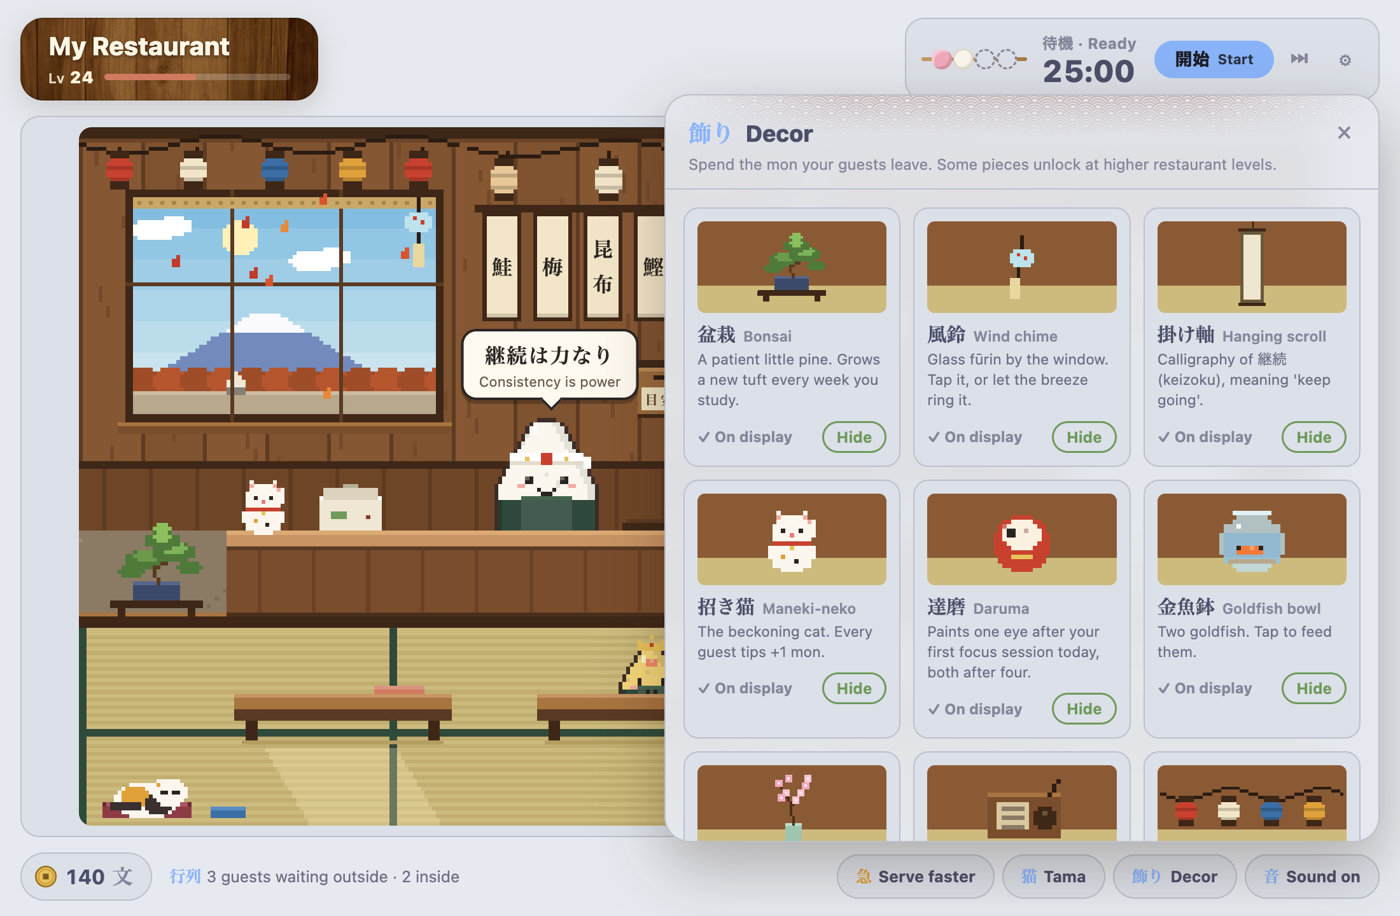
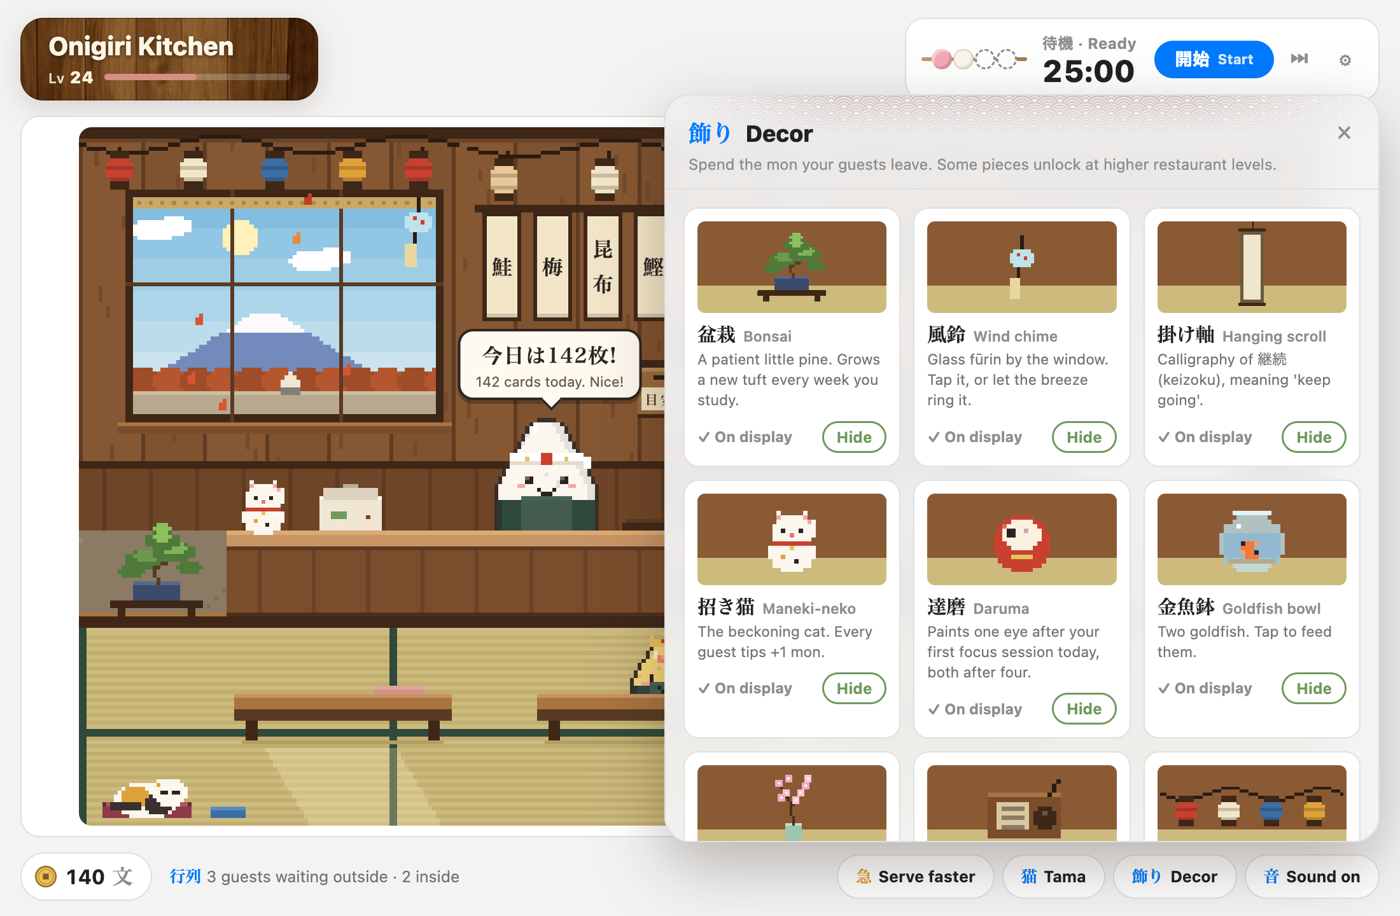
Screenshots: Onigiri's default theme
The preview now reads Onigiri's shipped default palette (and the default
restaurant colour/name) so the images show the kitchen as it looks in a
default Onigiri setup.

diff --git a/dev/widget.html b/dev/widget.html
@@ -1,11 +1,11 @@
 <!doctype html><html><head><meta charset="utf-8"><title>Widget preview</title>
 <style>
 body { margin:0; padding:24px; font-family:-apple-system,system-ui; background:var(--bg); color:var(--fg);
-  --bg:#e6e9ef; --fg:#4c4f69; --fg-subtle:#6c6f85; --border:#bcc0cc; --canvas-inset:#dce0e8; --accent-color:#89b4fa; }
-body.nightMode { --bg:#1e1e2e; --fg:#cdd6f4; --fg-subtle:#a6adc8; --border:#45475a; --canvas-inset:#313244; }
+  --bg:#f3f3f3; --fg:#212121; --fg-subtle:#757575; --border:#e0e0e0; --canvas-inset:#ffffff; --accent-color:#007aff; }
+body.nightMode { --bg:#2c2c2c; --fg:#e0e0e0; --fg-subtle:#9e9e9e; --border:#424242; --canvas-inset:#2c2c2c; --accent-color:#0a84ff; }
 .unified-grid { display:grid; gap:15px; grid-auto-rows:minmax(110px,auto); grid-template-columns:repeat(4,1fr); }
 .external-widget-container, .onigiri-widget-container { width:100%; height:100%; display:flex; flex-direction:column; overflow:hidden; }
-.fake { background:var(--canvas-inset); border-radius:15px; border:1px solid var(--border); display:flex; align-items:center; justify-content:center; color:var(--fg-subtle); font-size:13px; }
+.fake { background:var(--canvas-inset); border-radius:15px; border:1px solid var(--border); display:flex; flex-direction:column; align-items:flex-start; justify-content:center; padding:0 18px; box-sizing:border-box; color:var(--fg); font-size:13px; } .fake .lbl { color:var(--fg-subtle); font-size:12px; font-weight:600; } .fake b { font-size:22px; font-weight:800; }
 h3 { font-size:13px; color:var(--fg-subtle); margin:18px 0 8px; }
 .plainwrap { background:#fff; padding:14px; border-radius:8px; text-align:center; color:#333; }
 </style>
@@ -15,13 +15,13 @@ h3 { font-size:13px; color:var(--fg-subtle); margin:18px 0 8px; }
 <body><script>if(location.search.includes('night'))document.body.className='nightMode'</script>
 <h3>Onigiri home grid</h3>
 <div class="unified-grid">
-  <div class="onigiri-widget-container fake" style="grid-area:1/1/span 1/span 1">Studied</div>
-  <div class="external-widget-container" style="grid-area:1/2/span 1/span 2"><div class="okw" role="button" tabindex="0"><script type="application/json" class="okw-data">{"guests": 7, "nextIn": 3, "reviews": 142, "focusDone": 2, "mon": 186, "pet": {"name": "Tama", "tummy": 70, "love": 85, "energy": 70, "stage": 1}, "theme": "#AFC3D6", "timer": {"pomo": {"phase": "idle", "rounds": 1, "cycle": 4}, "sound": false}}</script><div class="okw-in"><canvas class="okw-scene" width="64" height="40"></canvas><div class="okw-info"></div></div></div></div>
-  <div class="external-widget-container" style="grid-area:1/4/span 1/span 1"><div class="okw" role="button" tabindex="0"><script type="application/json" class="okw-data">{"guests": 7, "nextIn": 3, "reviews": 142, "focusDone": 2, "mon": 186, "pet": {"name": "Tama", "tummy": 70, "love": 85, "energy": 70, "stage": 1}, "theme": "#AFC3D6", "timer": {"pomo": {"phase": "idle", "rounds": 1, "cycle": 4}, "sound": false}}</script><div class="okw-in"><canvas class="okw-scene" width="64" height="40"></canvas><div class="okw-info"></div></div></div></div>
-  <div class="external-widget-container" style="grid-area:2/1/span 2/span 2" id="w22"><div class="okw" role="button" tabindex="0"><script type="application/json" class="okw-data">{"guests": 0, "nextIn": 3, "reviews": 142, "focusDone": 2, "mon": 186, "pet": {"name": "Tama", "tummy": 70, "love": 85, "energy": 20, "stage": 1}, "theme": "#AFC3D6", "timer": {"pomo": {"phase": "focus", "endsAt": 0, "remaining": 1101000, "paused": true, "rounds": 1, "cycle": 4}}}</script><div class="okw-in"><canvas class="okw-scene" width="64" height="40"></canvas><div class="okw-info"></div></div></div></div>
-  <div class="external-widget-container" style="grid-area:2/3/span 2/span 1"><div class="okw" role="button" tabindex="0"><script type="application/json" class="okw-data">{"guests": 7, "nextIn": 3, "reviews": 142, "focusDone": 2, "mon": 186, "pet": {"name": "Tama", "tummy": 70, "love": 85, "energy": 70, "stage": 1}, "theme": "#AFC3D6", "timer": {"pomo": {"phase": "idle", "rounds": 1, "cycle": 4}, "sound": false}}</script><div class="okw-in"><canvas class="okw-scene" width="64" height="40"></canvas><div class="okw-info"></div></div></div></div>
-  <div class="onigiri-widget-container fake" style="grid-area:2/4/span 2/span 1">Heatmap</div>
+  <div class="onigiri-widget-container fake" style="grid-area:1/1/span 1/span 1"><span class="lbl">Studied</span><b>142 cards</b></div>
+  <div class="external-widget-container" style="grid-area:1/2/span 1/span 2"><div class="okw" role="button" tabindex="0"><script type="application/json" class="okw-data">{"guests": 7, "nextIn": 3, "reviews": 142, "focusDone": 2, "mon": 186, "pet": {"name": "Tama", "tummy": 70, "love": 85, "energy": 70, "stage": 1}, "theme": "#D49083", "timer": {"pomo": {"phase": "idle", "rounds": 1, "cycle": 4}, "sound": false}}</script><div class="okw-in"><canvas class="okw-scene" width="64" height="40"></canvas><div class="okw-info"></div></div></div></div>
+  <div class="external-widget-container" style="grid-area:1/4/span 1/span 1"><div class="okw" role="button" tabindex="0"><script type="application/json" class="okw-data">{"guests": 7, "nextIn": 3, "reviews": 142, "focusDone": 2, "mon": 186, "pet": {"name": "Tama", "tummy": 70, "love": 85, "energy": 70, "stage": 1}, "theme": "#D49083", "timer": {"pomo": {"phase": "idle", "rounds": 1, "cycle": 4}, "sound": false}}</script><div class="okw-in"><canvas class="okw-scene" width="64" height="40"></canvas><div class="okw-info"></div></div></div></div>
+  <div class="external-widget-container" style="grid-area:2/1/span 2/span 2" id="w22"><div class="okw" role="button" tabindex="0"><script type="application/json" class="okw-data">{"guests": 0, "nextIn": 3, "reviews": 142, "focusDone": 2, "mon": 186, "pet": {"name": "Tama", "tummy": 70, "love": 85, "energy": 20, "stage": 1}, "theme": "#D49083", "timer": {"pomo": {"phase": "focus", "endsAt": 0, "remaining": 1101000, "paused": true, "rounds": 1, "cycle": 4}}}</script><div class="okw-in"><canvas class="okw-scene" width="64" height="40"></canvas><div class="okw-info"></div></div></div></div>
+  <div class="external-widget-container" style="grid-area:2/3/span 2/span 1"><div class="okw" role="button" tabindex="0"><script type="application/json" class="okw-data">{"guests": 7, "nextIn": 3, "reviews": 142, "focusDone": 2, "mon": 186, "pet": {"name": "Tama", "tummy": 70, "love": 85, "energy": 70, "stage": 1}, "theme": "#D49083", "timer": {"pomo": {"phase": "idle", "rounds": 1, "cycle": 4}, "sound": false}}</script><div class="okw-in"><canvas class="okw-scene" width="64" height="40"></canvas><div class="okw-info"></div></div></div></div>
+  <div class="onigiri-widget-container fake" style="grid-area:2/4/span 2/span 1"><span class="lbl">Heatmap</span></div>
 </div>
 <h3>Plain Anki (no Onigiri), under the deck list</h3>
-<div class="plainwrap">[deck list]<div class="okw okw-plain" role="button" tabindex="0"><script type="application/json" class="okw-data">{"guests": 7, "nextIn": 3, "reviews": 142, "focusDone": 2, "mon": 186, "pet": {"name": "Tama", "tummy": 70, "love": 85, "energy": 70, "stage": 1}, "theme": "#AFC3D6", "timer": {"pomo": {"phase": "idle", "rounds": 1, "cycle": 4}, "sound": false}}</script><div class="okw-in"><canvas class="okw-scene" width="64" height="40"></canvas><div class="okw-info"></div></div></div></div>
+<div class="plainwrap">[deck list]<div class="okw okw-plain" role="button" tabindex="0"><script type="application/json" class="okw-data">{"guests": 7, "nextIn": 3, "reviews": 142, "focusDone": 2, "mon": 186, "pet": {"name": "Tama", "tummy": 70, "love": 85, "energy": 70, "stage": 1}, "theme": "#D49083", "timer": {"pomo": {"phase": "idle", "rounds": 1, "cycle": 4}, "sound": false}}</script><div class="okw-in"><canvas class="okw-scene" width="64" height="40"></canvas><div class="okw-info"></div></div></div></div>
 </body></html>

diff --git a/dev/preview.html b/dev/preview.html
@@ -19,7 +19,7 @@ const petState = {name: q.get('petname')||'Tama', tummy: parseFloat(q.get('tummy
 window.OK_INIT = {
   pet: petState, petAway: parseInt(q.get('away')||'0'), petStages: STAGES, petGifts: GIFTS,
   reason: q.get('reason')||'',
-  onigiri: {found:true, name: q.get('name')||'My Restaurant', level: parseInt(q.get('level')||'24'), xpInto: 1219, xpNext: 2450, themeColor: '#'+(q.get('color')||'D07A5F')},
+  onigiri: {found:true, name: q.get('name')||'Onigiri Kitchen', level: parseInt(q.get('level')||'24'), xpInto: 1219, xpNext: 2450, themeColor: '#'+(q.get('color')||'D49083')},
   state: {mon: mock.mon, owned: mock.owned, hidden: [], guestsWaiting: guests.length, servedTotal: 0, today:{date:'2026-09-25', reviews:142, focus_done:2}, firstSeen:'2026-09-01', tutorialDone: !q.has('tour')},
   takeout: q.has('clean') ? {count:0, mon:0} : {count: 2, mon: 4},
   catalog: [{"id": "bonsai", "name": "Bonsai", "jp": "盆栽", "level": 0, "price": 15, "desc": "A patient little pine. Grows a new tuft every week you study."}, {"id": "furin", "name": "Wind chime", "jp": "風鈴", "level": 2, "price": 25, "desc": "Glass fūrin by the window. Tap it, or let the breeze ring it."}, {"id": "kakejiku", "name": "Hanging scroll", "jp": "掛け軸", "level": 4, "price": 35, "desc": "Calligraphy of 継続 (keizoku), meaning 'keep going'."}, {"id": "maneki", "name": "Maneki-neko", "jp": "招き猫", "level": 6, "price": 50, "desc": "The beckoning cat. Every guest tips +1 mon."}, {"id": "daruma", "name": "Daruma", "jp": "達磨", "level": 8, "price": 45, "desc": "Paints one eye after your first focus session today, both after four."}, {"id": "kingyo", "name": "Goldfish bowl", "jp": "金魚鉢", "level": 10, "price": 60, "desc": "Two goldfish. Tap to feed them."}, {"id": "sakura", "name": "Sakura branch", "jp": "桜の枝", "level": 12, "price": 70, "desc": "A blossoming branch by the door. Petals drift through the shop."}, {"id": "radio", "name": "Radio", "jp": "ラジオ", "level": 15, "price": 80, "desc": "Plays a soft, endless koto melody while it's switched on."}, {"id": "matsuri", "name": "Festival lanterns", "jp": "祭り提灯", "level": 18, "price": 90, "desc": "A second string of lanterns, festival style."}, {"id": "tanuki", "name": "Tanuki statue", "jp": "信楽狸", "level": 20, "price": 120, "desc": "A Shigaraki tanuki for good fortune. Golden guests tip double."}],

diff --git a/dev/make_preview.py b/dev/make_preview.py
@@ -17,6 +17,40 @@ SAMPLE = {
              "border": "#45475a", "canvas-inset": "#313244", "highlight-bg": "#313244", "accent-fg": "#1b1b24"},
 }
 
+# Prefer Onigiri's *real* default theme (read from a local Onigiri install)
+# so the preview shows how the kitchen looks inside Onigiri out of the box.
+ONIGIRI_DIR = os.path.expanduser("~/Library/Application Support/Anki2/addons21/1011095603")
+THEME_VARS = ("accent-color", "bg", "fg", "fg-subtle", "border", "canvas-inset", "highlight-bg")
+
+
+def onigiri_default_palette():
+    import ast
+    try:
+        tree = ast.parse(open(os.path.join(ONIGIRI_DIR, "config.py"), encoding="utf-8").read())
+    except OSError:
+        return None
+    for node in ast.walk(tree):
+        if isinstance(node, ast.Dict):
+            for k, v in zip(node.keys, node.values):
+                if isinstance(k, ast.Constant) and k.value == "colors" and isinstance(v, ast.Dict):
+                    colors = ast.literal_eval(v)
+                    out = {}
+                    for mode in ("light", "dark"):
+                        pal = {name: colors[mode]["--" + name] for name in THEME_VARS if "--" + name in colors[mode]}
+                        acc = pal.get("accent-color", "#007aff").lstrip("#")
+                        r, g, b = (int(acc[i:i + 2], 16) / 255 for i in (0, 2, 4))
+                        pal["accent-fg"] = "#1b1b24" if 0.2126 * r + 0.7152 * g + 0.0722 * b > 0.55 else "#ffffff"
+                        out[mode] = pal
+                    return out
+    return None
+
+
+_real = onigiri_default_palette()
+if _real:
+    SAMPLE = _real
+    print("using Onigiri's default theme")
+
+
 def block(pal):
     return "".join(f"--oni-{k}:{v};" for k, v in pal.items())
 
